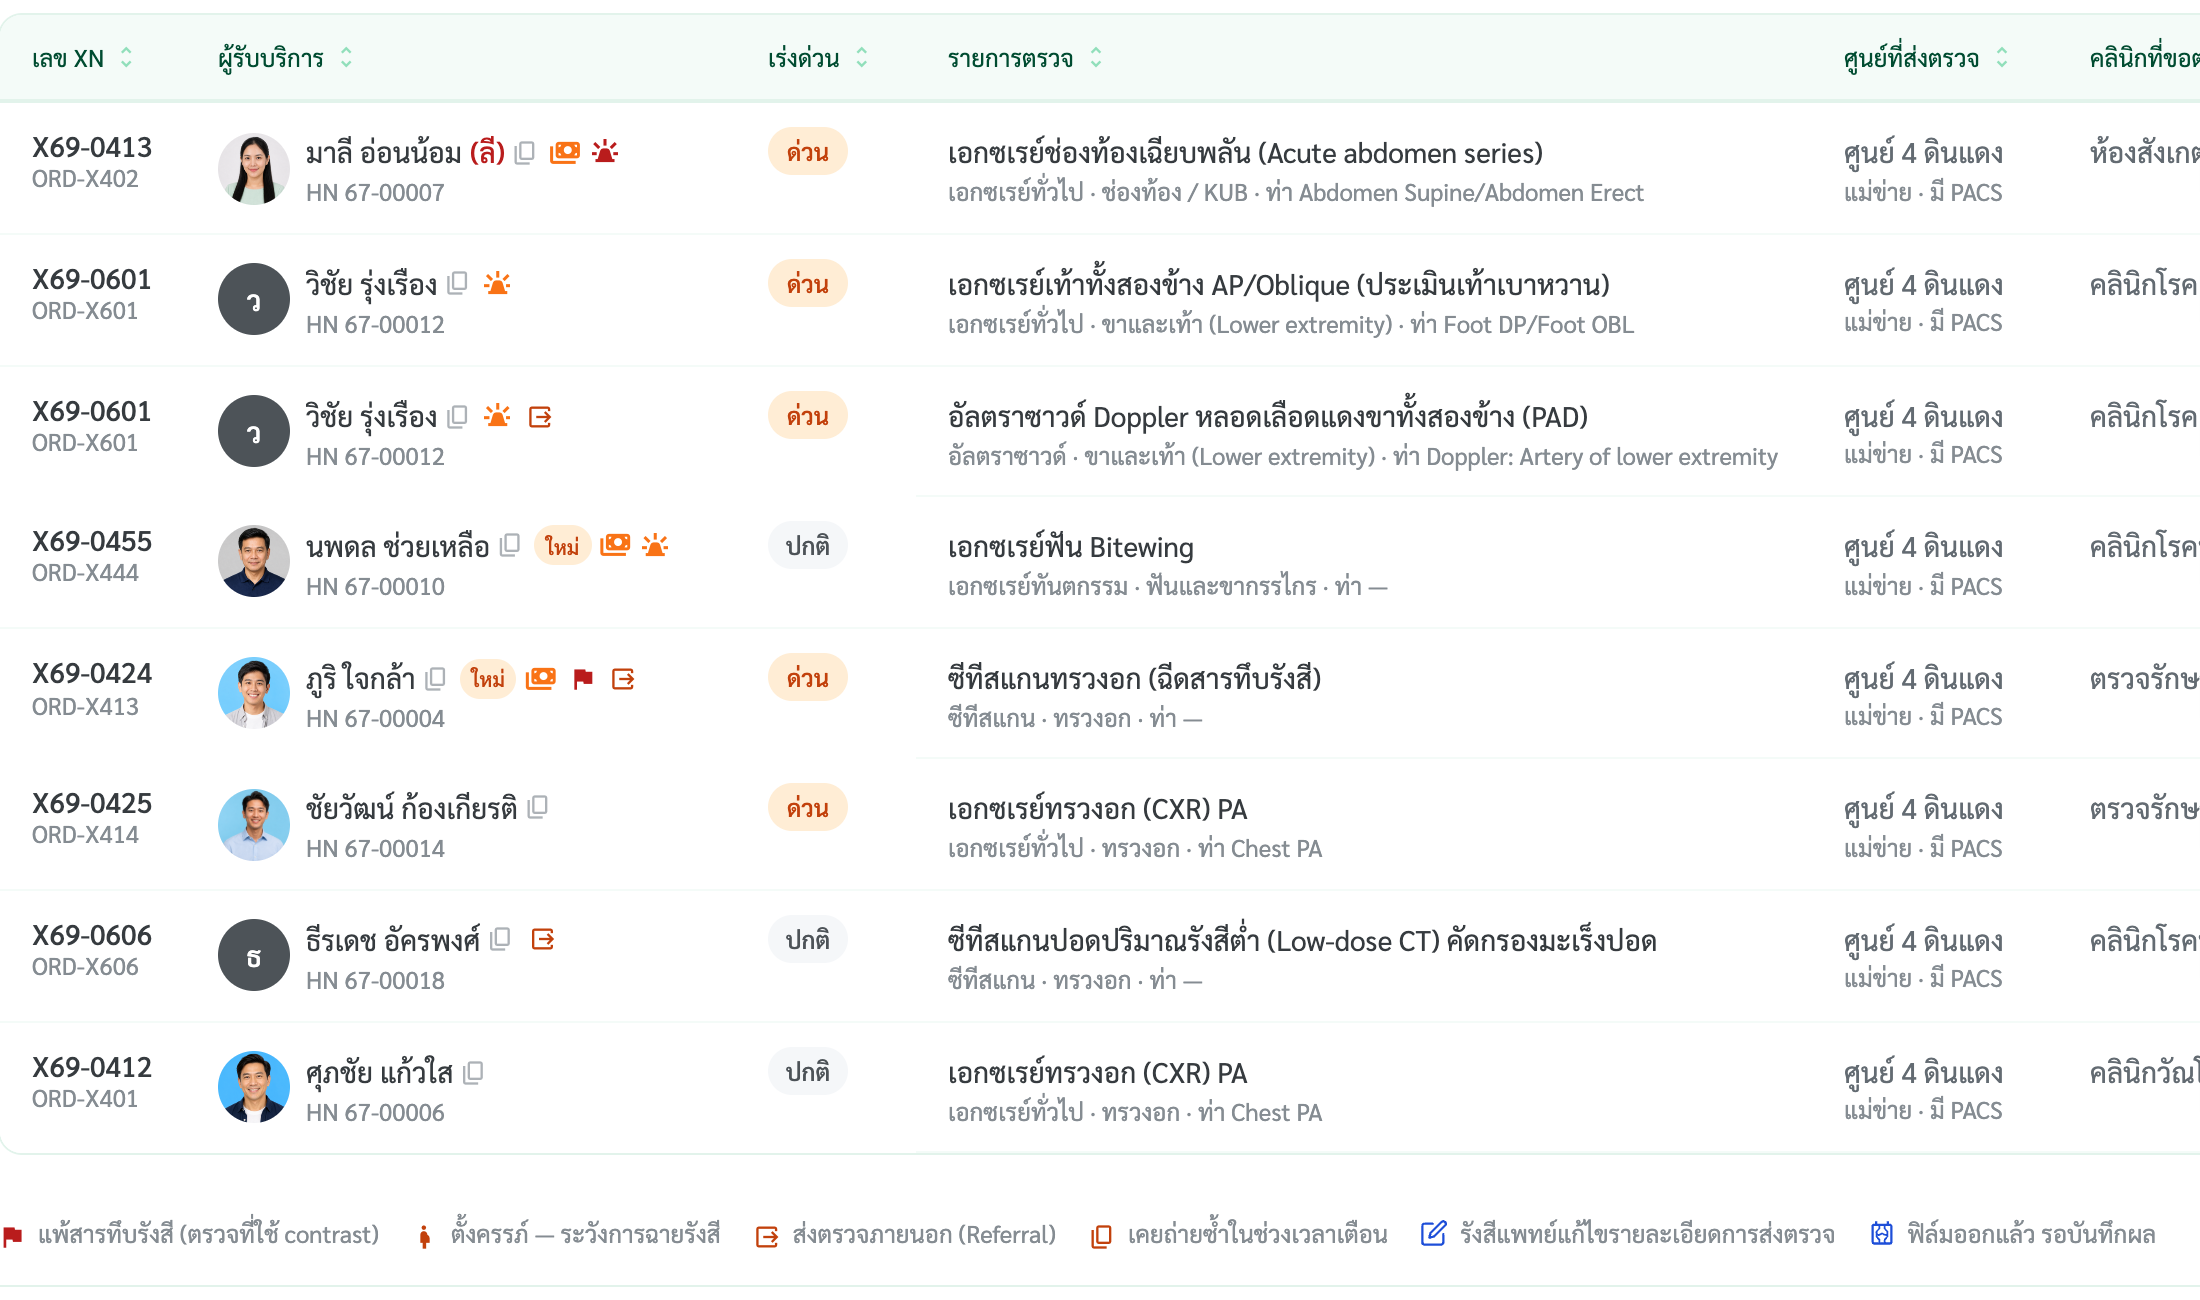
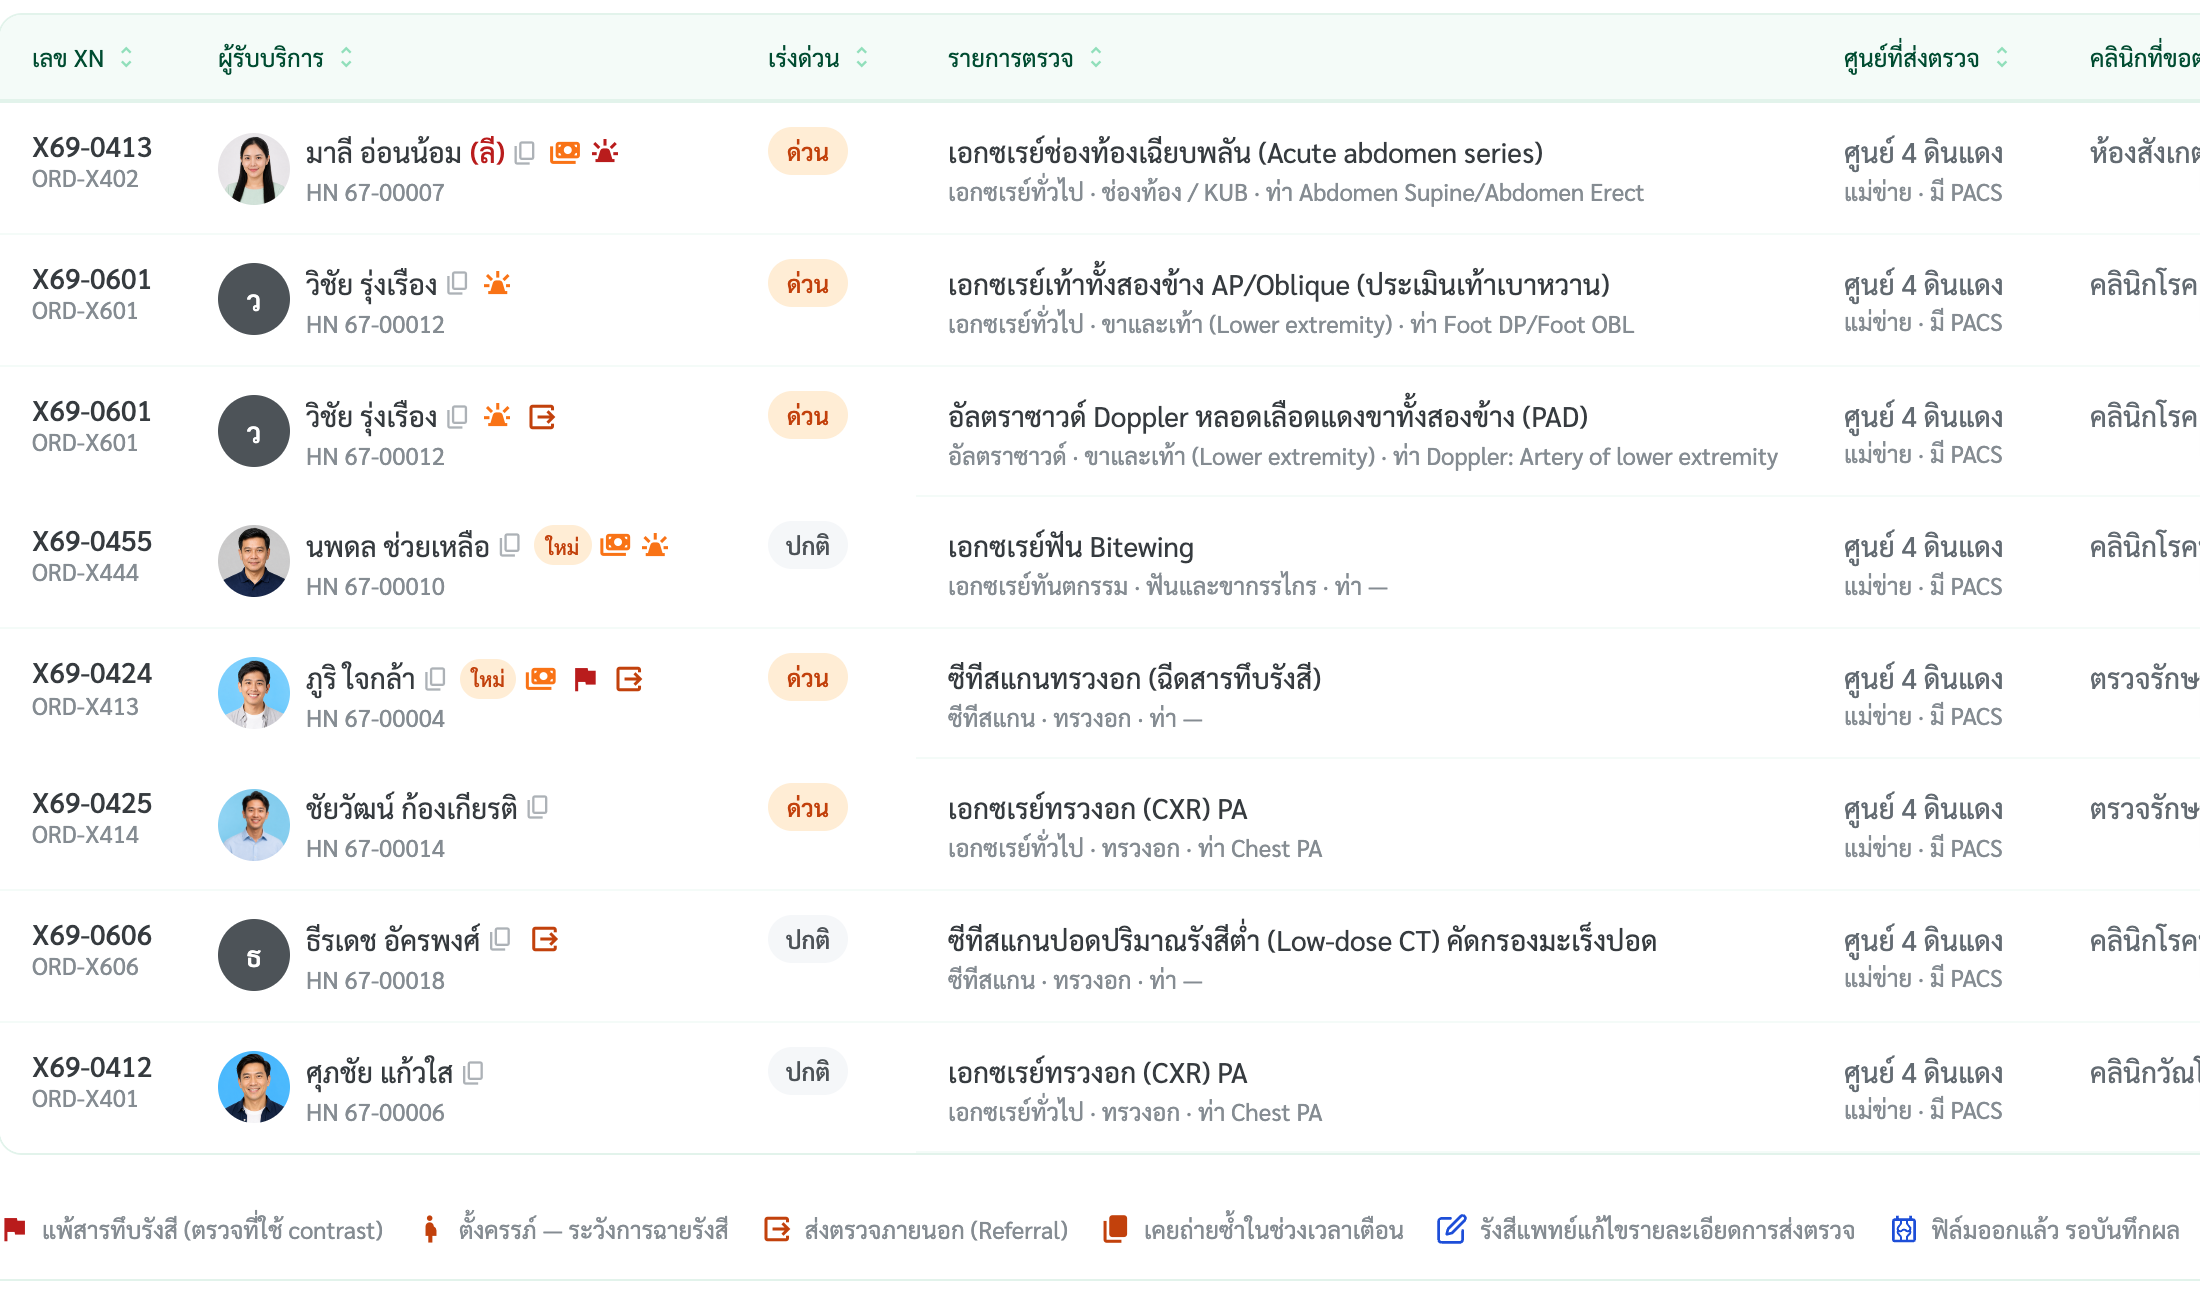
ไอคอนหลังชื่อ: คิวเอกซเรย์เป็นไอคอนทึบ 16px ชุดเดียวกับชุดกลาง (20 ต.ค. 69)

Changed region(s): [[0.0, 0.9846, 1.0, 1.0], [0.0, 0.9231, 0.9891, 0.9538], [0.2782, 0.4923, 0.3091, 0.5231]]

diff --git a/worklist-name-icons.html b/worklist-name-icons.html
@@ -310,42 +310,42 @@
   <td data-l="ค่าที่ทำให้แสดง">patientType = &quot;anc&quot; (ผู้ป่วยฝากครรภ์)</td>
 </tr>
 <tr>
-  <td data-l="ไอคอน" class="prev"><span class="tip" tabindex="0"><span class="ic"><span class="ms" style="color:var(--text-statusbadge-error, #B91C1C);font-size:14px;font-variation-settings:'FILL' 1,'wght' 500,'GRAD' 0,'opsz' 24">flag</span></span><span class="tt" role="tooltip"><span class="tt-t">แพ้สารทึบรังสี</span><span class="tt-s">ตรวจที่ใช้ contrast · ระบุสารที่แพ้และอาการ</span></span></span></td>
+  <td data-l="ไอคอน" class="prev"><span class="tip" tabindex="0"><span class="ic"><span class="ms" style="color:var(--text-statusbadge-error, #B91C1C);font-size:16px;font-variation-settings:'FILL' 1,'wght' 500,'GRAD' 0,'opsz' 24">flag</span></span><span class="tt" role="tooltip"><span class="tt-t">แพ้สารทึบรังสี</span><span class="tt-s">ตรวจที่ใช้ contrast · ระบุสารที่แพ้และอาการ</span></span></span></td>
   <td data-l="ชื่อ"><b>แพ้สารทึบรังสี (เอกซเรย์)</b></td>
   <td data-l="หน้า">คิวเอกซเรย์ /xray/queue</td>
   <td data-l="ข้อมูลมาจาก">ใบส่งตรวจเอกซเรย์ (แพทย์สั่ง CPOE) ช่องประวัติแพ้สารทึบรังสี → xrayOrders.allergy · contrast<code class="sub">XrayQueuePage.jsx · RowWarnGlyphs</code></td>
   <td data-l="ค่าที่ทำให้แสดง">รายการตรวจใช้สารทึบรังสี (contrast = true) และ allergy.has = true · tooltip: แพ้&lt;สาร&gt; — &lt;อาการ&gt;</td>
 </tr>
 <tr>
-  <td data-l="ไอคอน" class="prev"><span class="tip" tabindex="0"><span class="ic"><span class="ms" style="color:var(--text-statusbadge-warning, #C2410C);font-size:14px;font-variation-settings:'FILL' 0,'wght' 500,'GRAD' 0,'opsz' 24">pregnant_woman</span></span><span class="tt" role="tooltip"><span class="tt-t">ตั้งครรภ์</span><span class="tt-s">LMP · ระวังการฉายรังสี</span></span></span></td>
+  <td data-l="ไอคอน" class="prev"><span class="tip" tabindex="0"><span class="ic"><span class="ms" style="color:var(--text-statusbadge-warning, #C2410C);font-size:16px;font-variation-settings:'FILL' 1,'wght' 500,'GRAD' 0,'opsz' 24">pregnant_woman</span></span><span class="tt" role="tooltip"><span class="tt-t">ตั้งครรภ์</span><span class="tt-s">LMP · ระวังการฉายรังสี</span></span></span></td>
   <td data-l="ชื่อ"><b>ตั้งครรภ์ (เอกซเรย์)</b></td>
   <td data-l="หน้า">คิวเอกซเรย์ /xray/queue</td>
   <td data-l="ข้อมูลมาจาก">ใบส่งตรวจเอกซเรย์ ช่องสถานะการตั้งครรภ์ + LMP → xrayOrders.pregnancy<code class="sub">XrayQueuePage.jsx · RowWarnGlyphs</code></td>
   <td data-l="ค่าที่ทำให้แสดง">pregnancy.status = &quot;ตั้งครรภ์&quot; (หมดประจำเดือน / ไม่ตั้งครรภ์ = ไม่แสดง)</td>
 </tr>
 <tr>
-  <td data-l="ไอคอน" class="prev"><span class="tip" tabindex="0"><span class="ic"><span class="ms" style="color:var(--text-statusbadge-info, #1D4ED8);font-size:14px;font-variation-settings:'FILL' 0,'wght' 500,'GRAD' 0,'opsz' 24">radiology</span></span><span class="tt" role="tooltip"><span class="tt-t">ฟิล์มออกแล้ว</span><span class="tt-s">รอบันทึกผล</span></span></span></td>
+  <td data-l="ไอคอน" class="prev"><span class="tip" tabindex="0"><span class="ic"><span class="ms" style="color:var(--text-statusbadge-info, #1D4ED8);font-size:16px;font-variation-settings:'FILL' 1,'wght' 500,'GRAD' 0,'opsz' 24">radiology</span></span><span class="tt" role="tooltip"><span class="tt-t">ฟิล์มออกแล้ว</span><span class="tt-s">รอบันทึกผล</span></span></span></td>
   <td data-l="ชื่อ"><b>ฟิล์มออกแล้ว (เอกซเรย์)</b></td>
   <td data-l="หน้า">คิวเอกซเรย์ /xray/queue</td>
   <td data-l="ข้อมูลมาจาก">เจ้าหน้าที่รังสีกดฟิล์มออก → xrayOrders.filmIssuedAt<code class="sub">XrayQueuePage.jsx · RowWarnGlyphs</code></td>
   <td data-l="ค่าที่ทำให้แสดง">มีเวลาฟิล์มออกแล้ว (ใบยังรอบันทึกผล)</td>
 </tr>
 <tr>
-  <td data-l="ไอคอน" class="prev"><span class="tip" tabindex="0"><span class="ic"><span class="ms" style="color:var(--text-statusbadge-warning, #C2410C);font-size:14px;font-variation-settings:'FILL' 0,'wght' 500,'GRAD' 0,'opsz' 24">output</span></span><span class="tt" role="tooltip"><span class="tt-t">ส่งตรวจภายนอก (Referral)</span><span class="tt-s">ไม่ได้ตรวจในศูนย์ฯ</span></span></span></td>
+  <td data-l="ไอคอน" class="prev"><span class="tip" tabindex="0"><span class="ic"><span class="ms" style="color:var(--text-statusbadge-warning, #C2410C);font-size:16px;font-variation-settings:'FILL' 1,'wght' 500,'GRAD' 0,'opsz' 24">output</span></span><span class="tt" role="tooltip"><span class="tt-t">ส่งตรวจภายนอก (Referral)</span><span class="tt-s">ไม่ได้ตรวจในศูนย์ฯ</span></span></span></td>
   <td data-l="ชื่อ"><b>ส่งตรวจภายนอก (เอกซเรย์)</b></td>
   <td data-l="หน้า">คิวเอกซเรย์ /xray/queue</td>
   <td data-l="ข้อมูลมาจาก">ใบส่งตรวจแบบส่งตรวจภายนอก → xrayOrders.referralOnly<code class="sub">XrayQueuePage.jsx · RowWarnGlyphs</code></td>
   <td data-l="ค่าที่ทำให้แสดง">referralOnly = true (ไม่ได้ตรวจในศูนย์ฯ)</td>
 </tr>
 <tr>
-  <td data-l="ไอคอน" class="prev"><span class="tip" tabindex="0"><span class="ic"><span class="ms" style="color:var(--text-statusbadge-warning, #C2410C);font-size:14px;font-variation-settings:'FILL' 0,'wght' 500,'GRAD' 0,'opsz' 24">content_copy</span></span><span class="tt" role="tooltip"><span class="tt-t">เคยถ่ายซ้ำในช่วงเวลาเตือน</span><span class="tt-s">รายการเดียวกันเคยถ่ายเมื่อเร็ว ๆ นี้</span></span></span></td>
+  <td data-l="ไอคอน" class="prev"><span class="tip" tabindex="0"><span class="ic"><span class="ms" style="color:var(--text-statusbadge-warning, #C2410C);font-size:16px;font-variation-settings:'FILL' 1,'wght' 500,'GRAD' 0,'opsz' 24">content_copy</span></span><span class="tt" role="tooltip"><span class="tt-t">เคยถ่ายซ้ำในช่วงเวลาเตือน</span><span class="tt-s">รายการเดียวกันเคยถ่ายเมื่อเร็ว ๆ นี้</span></span></span></td>
   <td data-l="ชื่อ"><b>เคยถ่ายซ้ำ (เอกซเรย์)</b></td>
   <td data-l="หน้า">คิวเอกซเรย์ /xray/queue</td>
   <td data-l="ข้อมูลมาจาก">ประวัติเอกซเรย์ของ HN (xrayHistoryFor) เทียบรายการเดียวกัน → duplicateWarning (TOR §1.12.5.9)<code class="sub">XrayQueuePage.jsx · duplicateWarning</code></td>
   <td data-l="ค่าที่ทำให้แสดง">เคยถ่ายรายการตรวจเดียวกันภายในช่วงเวลาเตือน · tooltip บอกวันที่ครั้งก่อน</td>
 </tr>
 <tr>
-  <td data-l="ไอคอน" class="prev"><span class="tip" tabindex="0"><span class="ic"><span class="ms" style="color:var(--text-statusbadge-info, #1D4ED8);font-size:14px;font-variation-settings:'FILL' 0,'wght' 500,'GRAD' 0,'opsz' 24">edit</span></span><span class="tt" role="tooltip"><span class="tt-t">รังสีแพทย์แก้ไขรายละเอียดการส่งตรวจ</span><span class="tt-s">เวลา · ผู้แก้ · เหตุผล</span></span></span></td>
+  <td data-l="ไอคอน" class="prev"><span class="tip" tabindex="0"><span class="ic"><span class="ms" style="color:var(--text-statusbadge-info, #1D4ED8);font-size:16px;font-variation-settings:'FILL' 1,'wght' 500,'GRAD' 0,'opsz' 24">edit</span></span><span class="tt" role="tooltip"><span class="tt-t">รังสีแพทย์แก้ไขรายละเอียดการส่งตรวจ</span><span class="tt-s">เวลา · ผู้แก้ · เหตุผล</span></span></span></td>
   <td data-l="ชื่อ"><b>รังสีแพทย์แก้ไขคำสั่ง (เอกซเรย์)</b></td>
   <td data-l="หน้า">คิวเอกซเรย์ /xray/queue</td>
   <td data-l="ข้อมูลมาจาก">รังสีแพทย์แก้ไขใบส่งตรวจ → xrayOrders.amendedByRadiology · amendments (TOR §1.12.5.6)<code class="sub">XrayQueuePage.jsx · RowWarnGlyphs</code></td>
